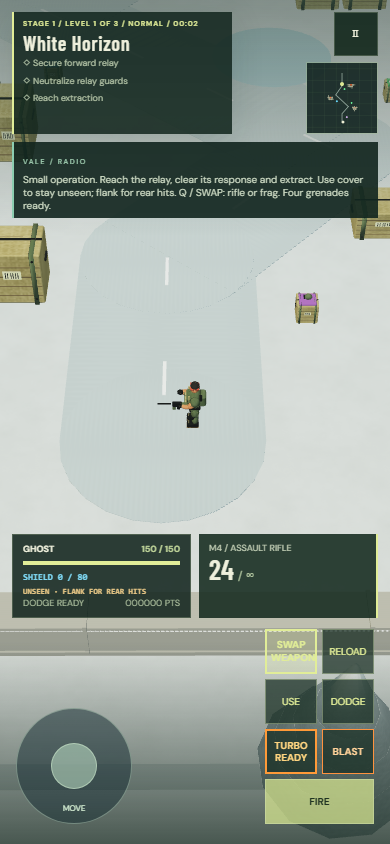
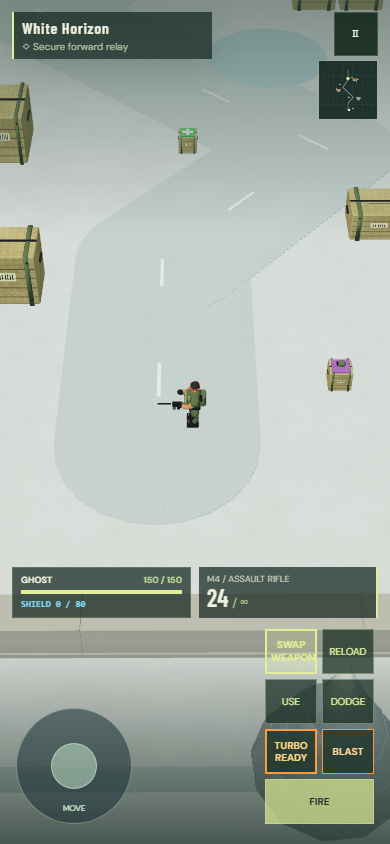
Minimize mobile HUD to essential objectives and combat status

diff --git a/src/style.css b/src/style.css
@@ -1761,3 +1761,76 @@ input {
     padding: 5px 7px;
   }
 }
+/* Essential information only during touch gameplay. */
+@media (pointer: coarse) {
+  #radio,
+  #mission-label,
+  #score,
+  #awareness,
+  #boss-phase {
+    display: none;
+  }
+  .objective-panel {
+    width: 200px;
+    padding: 6px 8px;
+    background: #12251eb8;
+  }
+  .objective-panel h2 {
+    font-size: 16px;
+    margin: 0 0 3px;
+  }
+  #objectives span.done,
+  #objectives span:not(.done) ~ span {
+    display: none;
+  }
+  #objectives {
+    font-size: 10px;
+  }
+  .health-panel,
+  .ammo-panel {
+    padding: 6px 8px;
+    background: #12251eb8;
+  }
+  .health-track {
+    margin: 4px 0;
+  }
+  .health-meta {
+    display: none;
+  }
+  .health-panel[data-context="true"] .health-meta {
+    display: flex;
+  }
+  #shield-text {
+    margin-top: 2px;
+  }
+  .ammo-panel strong {
+    font-size: 24px;
+  }
+  .ammo-panel > div {
+    font-size: 9px;
+  }
+  .hud-right {
+    gap: 4px;
+  }
+  #minimap {
+    width: 60px;
+    height: 60px;
+  }
+  #boss-panel {
+    top: calc(76px + env(safe-area-inset-top));
+    width: min(200px, 40vw);
+    padding: 5px 8px;
+  }
+  #boss-name {
+    font-size: 9px;
+  }
+  .boss-track {
+    margin: 4px 0 0;
+    height: 3px;
+  }
+}
+@media (pointer: coarse) {
+  .objective-panel {
+    align-self: start;
+  }
+}

diff --git a/tests/touch.spec.ts b/tests/touch.spec.ts
@@ -79,13 +79,11 @@ test("mobile buttons work with simultaneous touches and survive cancellation", a
   expect(
     await page.evaluate(() => (window as any).__nightfall.game.reserves[9]),
   ).toBe(2);
-  await page
-    .locator("#move-pad")
-    .dispatchEvent("pointerdown", {
-      pointerId: 40,
-      button: 0,
-      ...(await stickPoint(page, "up")),
-    });
+  await page.locator("#move-pad").dispatchEvent("pointerdown", {
+    pointerId: 40,
+    button: 0,
+    ...(await stickPoint(page, "up")),
+  });
   await page.locator('[data-action="dodge"]').tap();
   await expect
     .poll(() =>
@@ -119,10 +117,7 @@ test("mobile buttons work with simultaneous touches and survive cancellation", a
     { width: 844, height: 390 },
   ]) {
     await page.setViewportSize(viewport);
-    await expect(page.locator("#radio")).toHaveCSS("transform", "none");
-    const radioBox = await page.locator("#radio").boundingBox();
-    expect(radioBox!.x).toBeGreaterThanOrEqual(0);
-    expect(radioBox!.x + radioBox!.width).toBeLessThanOrEqual(viewport.width);
+    await expect(page.locator("#radio")).toBeHidden();
     const usable = await page.locator("#touch button").evaluateAll((buttons) =>
       buttons.every((b) => {
         const r = b.getBoundingClientRect();

diff --git a/tests/mobile-layout.spec.ts b/tests/mobile-layout.spec.ts
@@ -19,6 +19,16 @@ test("mobile status leaves bottom thumb controls clear across phone sizes", asyn
     [1024, 768],
   ]) {
     await page.setViewportSize({ width, height });
+    await expect(page.locator("#radio")).toBeHidden();
+    await expect(page.locator("#mission-label")).toBeHidden();
+    await expect(page.locator("#score")).toBeHidden();
+    await expect(page.locator("#objectives span:visible")).toHaveCount(1);
+    expect(
+      (await page.locator(".objective-panel").boundingBox())!.height,
+    ).toBeLessThan(65);
+    expect(
+      (await page.locator(".health-panel").boundingBox())!.height,
+    ).toBeLessThan(65);
     const layout = await page.evaluate(() => {
       const pad = document.querySelector("#move-pad")!.getBoundingClientRect();
       const controls = [

diff --git a/src/main.ts b/src/main.ts
@@ -417,6 +417,9 @@ function updateHud() {
       Math.ceil(game.riding.hp) +
       " / " +
       game.riding.spec.hp;
+  $(".health-panel").dataset.context = String(
+    !!game.riding || game.dashCooldown > 0,
+  );
   $("#score").textContent = `${game.score.toString().padStart(6, "0")} PTS`;
   const ride = game.riding;
   const personalWeapon = game.usesPersonalWeapon;

diff --git a/docs/MOBILE_JOYSTICK.md b/docs/MOBILE_JOYSTICK.md
@@ -11,3 +11,7 @@ Validation: production TypeScript/Vite build; 40 unit checks; browser checks for
 The joystick behavior alone did not match Tank's thumb placement: RAMBO's status windows still occupied the bottom corners. Touch controls now sit 20px from the bottom in portrait and 16px in landscape, plus the device safe-area inset. Portrait status panels sit above the action cluster. Landscape status panels fit between the joystick and combat buttons, stacking on narrow phones. Health, shield, awareness, ammunition and weapon names remain visible in compact panels. Desktop styling is unchanged.
 
 Validated with collision/hit-target checks at 390x844, 320x568, 844x390, 568x320 and 1024x768, plus existing multitouch and analog-control regressions. Updated portrait and landscape captures show the arrangement.
+
+## Essential mobile HUD
+
+Mobile now hides the long radio panel, mission metadata, completed/future objectives, score, awareness tutorial, boss phase text and keyboard hints. The compact mission card shows only the stage name and first unfinished objective. Health/shield and weapon/ammunition remain visible; dodge cooldown or vehicle armor appears only when applicable. The minimap is 60px and boss health uses a compact strip. Mission and ordinary health panels are checked to remain below 65px high across five viewport sizes. Desktop information remains unchanged.
